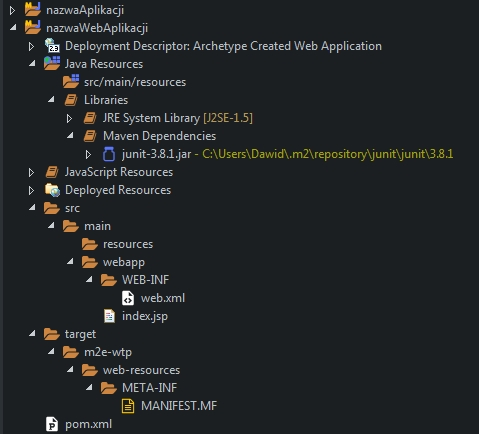
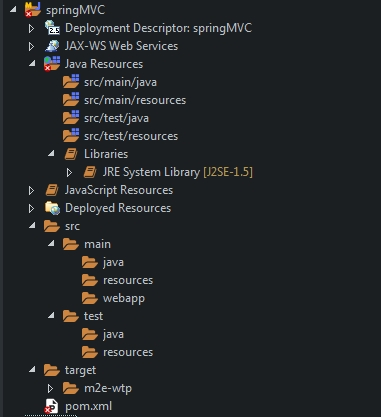
2018-10-12 - Dodanie nowej zawartości

Changed region(s): [[0.0, 0.0, 0.9528, 0.9976]]

diff --git a/WebContent/eclipse/dodawanieSpringMvcDoProjektuMavenDlaJavyEeAdnotacje.html b/WebContent/eclipse/dodawanieSpringMvcDoProjektuMavenDlaJavyEeAdnotacje.html
@@ -1,0 +1,137 @@
+<h1>Dodawanie Spring MVC do projektu Maven - Java EE - konfiguracja na adnotacjach</h1>
+<div class="contentDiv">
+
+	<p>Do wcześniej utworzonego projektu maven dla Javy EE dodamy framework Spring MVC. Aby to zrobić trzeba na początek dodać odpowiednie zależności do pliku 
+	<span class="clickDiv">pom.xml</span>. Zatem dodajemy:</p>
+	
+	<div class="codeDiv">
+		&lt;dependency&gt;<br>
+			&nbsp;&lt;groupId&gt;org.springframework&lt;/groupId&gt;<br>
+			&nbsp;&lt;artifactId&gt;spring-webmvc&lt;/artifactId&gt;<br>
+			&nbsp;&lt;version&gt;5.0.8.RELEASE&lt;/version&gt;<br>
+		&lt;/dependency&gt;<br>
+		&lt;dependency&gt;<br>
+			&nbsp;&lt;groupId&gt;org.springframework&lt;/groupId&gt;<br>
+			&nbsp;&lt;artifactId&gt;spring-core&lt;/artifactId&gt;<br>
+			&nbsp;&lt;version&gt;5.0.8.RELEASE&lt;/version&gt;<br>
+		&lt;/dependency&gt;<br>
+		&lt;dependency&gt;<br>
+			&nbsp;&lt;groupId&gt;org.springframework&lt;/groupId&gt;<br>
+			&nbsp;&lt;artifactId&gt;spring-context&lt;/artifactId&gt;<br>
+			&nbsp;&lt;version&gt;5.0.8.RELEASE&lt;/version&gt;<br>
+		&lt;/dependency&gt;		
+	</div>
+	
+	<p>Upewniamy się, żę zależność dodająca servlet api ma ustawioną wersję 4.0.0:</p>
+	
+	<div class="codeDiv">
+		&lt;dependency&gt;<br>
+			&nbsp;&lt;groupId&gt;javax.servlet&lt;/groupId&gt;<br>
+			&nbsp;&lt;artifactId&gt;javax.servlet-api&lt;/artifactId&gt;<br>
+			&nbsp;&lt;version&gt;4.0.0&lt;/version&gt;<br>
+			&nbsp;&lt;scope&gt;provided&lt;/scope&gt;<br>
+		&lt;/dependency&gt;	
+	</div>
+	
+	<p>Należy zadbać o poprawne ustawienia mavena:</p>
+	
+	<div class="codeDiv">
+		&lt;properties&gt;<br>
+			&nbsp;&lt;failOnMissingWebXml&gt;false&lt;/failOnMissingWebXml&gt;<br>
+			&nbsp;&lt;maven.compiler.source&gt;1.8&lt;/maven.compiler.source&gt;<br>
+			&nbsp;&lt;maven.compiler.target&gt;1.8&lt;/maven.compiler.target&gt;<br>
+			&nbsp;&lt;project.build.sourceEncoding&gt;UTF-8&lt;/project.build.sourceEncoding&gt;<br>
+		&lt;/properties&gt;	
+	</div>
+	
+	<p>Poniższa konfiguracja będzie oparta na adnotacjach. Nie będziemy tutaj używać plików xml do konfiguracji Springa ani serwera. Zatem
+	wygenerowany plik <code>web.xml</code> należy usunąć, bo zostanie on zastąpiony klasą z odpowiednią konfiguracją. Zatem należy utworzyć klasę
+	konfigurującą <code>Dispatcher Servlet</code>. Dla przykładu umieszczamy ją w pakiecie <code>pl.softService.springMVC.configuration</code>:</p>
+	
+	<div class="codeDiv">
+		public class MyDispatcherServlet extends AbstractAnnotationConfigDispatcherServletInitializer {<br>
+		<br>
+			&nbsp;@Override<br>
+			&nbsp;protected Class&lt;?&gt;[] getRootConfigClasses() {<br>
+				&nbsp;&nbsp;return null;<br>
+			&nbsp;}<br>
+		<br>
+			&nbsp;@Override<br>
+			&nbsp;protected Class&lt;?&gt;[] getServletConfigClasses() {<br>				
+				&nbsp;&nbsp;return new Class[] { WebConfig.class };<br>
+			&nbsp;}<br>
+		<br>
+			&nbsp;@Override<br>
+			&nbsp;protected String[] getServletMappings() {<br>		
+				&nbsp;&nbsp;return new String[] {"/"};<br>
+			&nbsp;}<br>
+		<br>
+		}	
+	</div>
+	
+	<p>
+		<code>AbstractAnnotationConfigDispatcherServletInitializer</code> - rozszerzając tą klasę konfigurujemy właśnie Dispatcher Servlet<br>
+		<code>WebConfig.class</code> - wskazujemy klasę z konfiguracją Springa MVC<br>
+	</p>
+	
+	<p>Następnie należy utworzyć klasę z konfiguracją Springa, którą wskazaliśmy powyżej podczas konfiguracji Dispatcher Servletu.
+	Klasę tą również umieszczamy w pakiecie <code>pl.softService.springMVC.configuration</code>:</p>
+	
+	<div class="codeDiv">
+		@Configuration<br>
+		@EnableWebMvc<br>
+		@ComponentScan("pl.softService.springMVC")<br>
+		public class WebConfig implements WebMvcConfigurer {<br>
+		<br>
+			&nbsp;@Override<br>
+			&nbsp;public void configureViewResolvers(ViewResolverRegistry registry) {<br>
+				&nbsp;&nbsp;registry.jsp().prefix("/WEB-INF/views/").suffix(".jsp");<br>
+			&nbsp;}<br>
+		}	
+	</div>
+	
+	<p>
+		<code>@Configuration</code> - ustawienie klasy jako konfiguracji Springa<br>
+		<code>@EnableWebMvc</code> - włączenie Spring MVC<br>
+		<code>@ComponentScan</code> - włącza skanowanie komponentów w wybranym pakiecie<br>
+		<code>configureViewResolvers()</code> - konfiguruje producenta widoków<br>
+	</p>
+	
+	<p>Ostatnią rzeczą jaką należy zrobić jest utworzenie kontrolera, który będzie obsługiwał żądania klienta. Kontroler taki tworzymy przykładowo
+	w pakiecie <code>pl.softService.springMVC.controllers</code>:</p>
+	
+	<div class="codeDiv">
+		@Controller<br>
+		public class HomeController {<br>
+		<br>
+			&nbsp;@RequestMapping(value ="/")<br>
+			&nbsp;public String home(Model model) {<br>
+				&nbsp;&nbsp;model.addAttribute("atribute", "Spring");<br>
+				&nbsp;&nbsp;return "home";<br>
+			&nbsp;}<br>
+		}	
+	</div>
+	
+	<p>
+		<code>@Controller</code> - oznacza klasę kontrolera<br>
+		<code>@RequestMapping</code> - konfiguruje URL żądania jaki będzie obsługiwany przez kontroler / metodę<br>
+	</p>
+	
+	<p>Plik z widokiem umieszczamy w lokalizacji <code>webapp/WEB-INF/views/</code>:</p>
+	
+	<div class="codeDiv">
+		&lt;!DOCTYPE html&gt;<br>
+		&lt;html&gt;<br>
+		&lt;head&gt;<br>
+		&lt;meta charset="UTF-8"&gt;<br>
+		&lt;title&gt;Hello !&lt;/title&gt;<br>
+		&lt;/head&gt;<br>
+		&lt;body&gt;
+			&nbsp;&lt;h3&gt;Hello ${atribute}&lt;/h3&gt;<br>
+		&lt;/body&gt;<br>
+		&lt;/html&gt;
+	</div>
+	
+	<p>Tak przygotowaną aplikację można skompilować przy użyciu polecenia <code>mvn clean package</code></p>
+	
+</div>

diff --git a/WebContent/eclipse/tworzenieProjektuMavenEe.html b/WebContent/eclipse/tworzenieProjektuMavenEe.html
@@ -8,36 +8,32 @@
 	<!-- OBRAZEK Z OKNEM WYBORU PROJEKTU W ECLIPSE -->
 	<img src="obrazki/oknoSelectAWizard.jpg" style="max-width: 525px;" onclick="powiekszZdjecie(this)">
 	
-	<p>Wybieramy <span class="clickDiv">Maven -> Maven Project</span> i przechodzimy do okna ustawień nowego projektu. W tym oknie nie zmieniamy nic. Klikamy <span class="clickDiv">Next</span> i przechodzimy
-	do kolejnego okna konfiguracyjnego nowego projektu:</p>
+	<p>Wybieramy <span class="clickDiv">Maven -> Maven Project</span> i przechodzimy do okna ustawień nowego projektu. W tym oknie zaznaczamy opcję
+	<span class="clickDiv">Create a simple project (skip archetype selection)</span>. Następnie klikamy <span class="clickDiv">Next</span>
+	i przechodzimy do kolejnego okna konfiguracyjnego nowego projektu:</p>
 	
-	<!-- OBRAZEK Z OKNEM USTAWIEŃ NOWEGO PROJEKTU MAVEN -->
-	<img src="obrazki/oknoNewMavenProject.jpg" style="max-width: 728px;" onclick="powiekszZdjecie(this)">
+	<!-- OBRAZEK Z OKNEM USTAWIEŃ NAZWY GROUP ID ORAZ ARTIFACT ID -->
+	<img src="obrazki/oknoNewMavenProjectWebApp_1.jpg" style="max-width: 529px;" onclick="powiekszZdjecie(this)">
 	
-	<p>W tym oknie wybieramy archetyp projektu maven. Aby utworzyć projekt maven web aplikacji wybieramy <span class="clickDiv">maven-archetype-webapp</span> 
-	i przechodzimy do następnego okna klikając przycisk <span class="clickDiv">Next</span></p>
-	
-	<!-- OBRAZEK Z OKNEM USTAWIEŃ ARCHETYPU PROJEKTU MAVEN -->
-	<img src="obrazki/oknoNewMavenProjectWebApp_2.jpg" style="max-width: 823px;" onclick="powiekszZdjecie(this)">
-	
-	<p>W tym oknie ustawiamy Group Id oraz Artifact Id i następnie klikamy przycisk <span class="clickDiv">Finish</span>. Projekt zostaje utworzony.</p>
-	
-	<!-- OBRAZEK Z OKNEM USTAWIEŃ NAZWY GROUP ID ORAZ ARTIFACT ID	 -->
-	<img src="obrazki/oknoNewMavenProjectWebApp_3.jpg" style="max-width: 823px;" onclick="powiekszZdjecie(this)">
+	<p>W tym oknie ustawiamy Group Id, Artifact Id oraz ustawiamy <span class="clickDiv">Packaging</span> wartość war
+	i następnie klikamy przycisk <span class="clickDiv">Finish</span>. Projekt zostaje utworzony.</p>
 	
 	<p>Poniżej przedstawiono drzewo katalogów po utworzeniu projektu web aplikacji maven w Eclipse:</p>
 	
 	<!-- OBRAZEK Z DRZEWKIEM KATALOGÓW NOWO UTWORZONEGO PROJEKTU MAVEN -->
-	<img src="obrazki/drzewoNowegoProjektuMavenWebApp.jpg" style="max-width: 420px;" onclick="powiekszZdjecie(this)">
+	<img src="obrazki/drzewoNowegoProjektuMavenWebApp.jpg" style="max-width: 381px;" onclick="powiekszZdjecie(this)">
 	
-	<p>Aby projekt poprawnie się budował i można go było uruchomić to należy dodać do pliku pom.xml zależność <span class="clickDiv">javax.servlet-api</span> 
-	jak pokazano to na poniższym obrazku</p>
+	<p>Aby projekt poprawnie się budował i można go było uruchomić to należy dodać do pliku pom.xml zależność
+	<span class="clickDiv">javax.servlet</span> oraz
+	kilka ustawień w elemencie <code>&lt;properties&gt;</code> jak pokazano to na poniższym obrazku:</p>
 	
 	<!-- OBRAZEK PLIK POM NOWEGO PROJEKTU MAVEN -->
-	<img src="obrazki/plikPOMnowegoProjektuMavenWebApp.jpg" style="max-width: 764px;" onclick="powiekszZdjecie(this)">
+	<img src="obrazki/plikPOMnowegoProjektuMavenWebApp.jpg" style="max-width: 807px;" onclick="powiekszZdjecie(this)">
 	
-	<p>Po wprowadzeniu jakichkolwiek zmian w pliku pom.xml należy kliknąć ppm na nazwę projektu <span class="clickDiv">Maven -> Update Project</span>. Tak przygotowany projekt można już skompilować.
-	Kompilację robimy z konsoli poleceniem <code>mvn clean package</code>, przechodząc do folderu projektu, jak  pokazano to na załączonym obrazku:</p>
+	<p>Po wprowadzeniu jakichkolwiek zmian w pliku pom.xml należy kliknąć ppm na nazwę projektu
+	<span class="clickDiv">Maven -> Update Project</span>. Tak przygotowany projekt można już skompilować.
+	Kompilację robimy z konsoli poleceniem <code>mvn clean package</code>,
+	przechodząc do folderu projektu, jak  pokazano to na załączonym obrazku:</p>
 	
 	<!-- OBRAZEK Z POLECENIEM KOMPILACJI PROJEKTU MAVEN -->
 	<img src="obrazki/budowanieProjektuMavenWebApp.jpg" style="max-width: 677px;" onclick="powiekszZdjecie(this)">
@@ -47,14 +43,5 @@
 	
 	<!-- OBRAZEK URUCHOMIONEGO PROGRAMU W PRZEGLĄDARCE INTERNETOWEJ -->
 	<img src="obrazki/uruchomienieSkompilowanegoProgramuWPrzegladarce.jpg" style="max-width: 610px;" onclick="powiekszZdjecie(this)">
-	
-	<p>Aby móc skonfigurować folder, do którego maven będzie przenosił zbudowany projekt war, należy dodać zależność 
-	<span class="clickDiv">maven-war-plugin</span> do projektu oraz odpowiednio skonfigurować lokalizację wyjściową dla pliku war, jak
-	pokazano to na poniższym obrazku:</p>
-	
-	<!-- OBRAZEK - PLIK POM Z ZALEŻNOŚCIĄ KONFIGURUJĄCĄ OUTPUT DIRECTORY -->
-	<img src="obrazki/plikPomMavenWarPlugin.jpg" style="max-width: 760px;" onclick="powiekszZdjecie(this)">
-
-	<p>Powyższe ustawienia umożliwiają nadanie nazwy gotowemu plikowi war oraz utworzenie go we wskazanej lokalizacji.</p>
 
 </div>

diff --git a/WebContent/spring/jdbc.html b/WebContent/spring/jdbc.html
@@ -13,7 +13,7 @@
 		&lt;dependency&gt;<br>
 			&nbsp;&lt;groupId&gt;mysql&lt;/groupId&gt;<br>
 			&nbsp;&lt;artifactId&gt;mysql-connector-java&lt;/artifactId&gt;<br>
-			&nbsp;&lt;version&gt;5.0.5&lt;/version&gt;<br>
+			&nbsp;&lt;version&gt;5.0.5&lt;/version&gt;&nbsp;// 5.1.39 Też działa dobrze<br>
 		&lt;/dependency&gt;
 	</div>
 	
@@ -22,8 +22,10 @@
 	<span class="important">MySql</span> potrafi przysporzyć nieco problemów. Dlatego ważne aby korzystać ze sprawdzonych wersji, bo nie każda wersja sterownika działa z każdą wersją Springa,
 	co jest oczywiste.</p>
 	
-	<p>Po dodaniu nezbędnych zależności do projektu należy w pliku konfiguracyjnym Springa <code>applicationContext.xml</code> dodać odpowiedniego bean'a, który będzie nam dostarczał
-	połączenie z bazą danych. Należy zatem w pliku <code>applicationContext.xml</code> umieścić następujący wpis:</p>
+	<p>Po dodaniu nezbędnych zależności do projektu należy w pliku konfiguracyjnym Springa <code>applicationContext.xml</code>
+	lub klasie konfiguracyjnej <code>WebConfig.java</code> w przypadku gdy konfigurujemy Springa za pomocą adnotacji,
+	dodać odpowiedniego bean'a, który będzie nam dostarczał	połączenie z bazą danych.
+	Należy zatem w pliku <code>applicationContext.xml</code> umieścić następujący wpis:</p>
 	
 	<div class="codeDiv">
 		&lt;bean id="dataSource" class="org.springframework.jdbc.datasource.DriverManagerDataSource"&gt;<br>
@@ -32,6 +34,21 @@
 		&nbsp;&lt;property name="username" value="login" /&gt;<br>
 		&nbsp;&lt;property name="password" value="hasło" /&gt;<br>
 	&lt;/bean&gt;
+	</div>
+	
+	<p>lub metodę w klasie <code>WebConfig.java</code>:</p>
+	
+	<div class="codeDiv">
+		@Bean<br>
+		public DataSource dataSource() {<br>
+			&nbsp;DriverManagerDataSource dataSource = new DriverManagerDataSource();<br>
+			&nbsp;dataSource.setDriverClassName("com.mysql.jdbc.Driver");<br>
+			&nbsp;dataSource.setUrl("jdbc:mysql://localhost:3306/nazwa_bazy_danych");<br>
+			&nbsp;dataSource.setUsername("login");<br>
+			&nbsp;dataSource.setPassword("hasło");<br>
+			<br>	
+			return dataSource;<br>
+		}	
 	</div>
 	
 	<p>To już cała konfiguracja, która umożliwia skorzystanie w najprostrzej z opcji z dostępu do bazy danych. Przykład w jaki należy uzyskać dostęp do bazy danych znajduje się na
@@ -123,6 +140,45 @@
 		&lt;bean id="transactionManager" class="org.springframework.orm.jpa.JpaTransactionManager"&gt;<br>
 			&nbsp;&lt;property name="entityManagerFactory" ref="entityManagerFactory" /&gt;<br>
 	&lt;/bean&gt;	
+	</div>
+	
+	<p>lub jeżeli korzystamy z konfiguracji adnotacjami, to w pliku <span class="clickDiv">WebConfig.java</span> należy dodać kilka
+	beanów, jak przedstawiono to poniżej:</p>
+	
+	<div class="codeDiv">
+		@Bean<br>
+		public LocalContainerEntityManagerFactoryBean entityManagerFactory() {<br>
+			&nbsp;LocalContainerEntityManagerFactoryBean em = new LocalContainerEntityManagerFactoryBean();<br>
+			&nbsp;em.setDataSource(dataSource());<br>
+			&nbsp;em.setPackagesToScan(new String[] { "pl.softService.springMVC.domain" });<br>
+		<br>
+			&nbsp;JpaVendorAdapter vendorAdapter = new HibernateJpaVendorAdapter();<br>
+			&nbsp;em.setJpaVendorAdapter(vendorAdapter);<br>
+			&nbsp;em.setJpaProperties(additionalProperties());<br>
+		<br>
+			&nbsp;return em;<br>
+		}<br>
+		<br>
+		@Bean<br>
+		public PlatformTransactionManager transactionManager(EntityManagerFactory emf) {<br>
+			&nbsp;JpaTransactionManager transactionManager = new JpaTransactionManager();<br>
+			&nbsp;transactionManager.setEntityManagerFactory(emf);<br>
+		<br>
+			&nbsp;return transactionManager;<br>
+		}<br>
+		<br>
+		@Bean<br>
+		public PersistenceExceptionTranslationPostProcessor exceptionTranslation() {<br>
+			&nbsp;return new PersistenceExceptionTranslationPostProcessor();<br>
+		}<br>
+		<br>
+		Properties additionalProperties() {<br>
+			&nbsp;Properties properties = new Properties();<br>
+			&nbsp;properties.setProperty("hibernate.hbm2ddl.auto", "create-drop");<br>
+			&nbsp;properties.setProperty("hibernate.dialect", "org.hibernate.dialect.MySQL5Dialect");<br>
+		<br>
+			&nbsp;return properties;<br>
+		}	
 	</div>
 	
 	<p>

diff --git a/WebContent/spring/springSecurity.html b/WebContent/spring/springSecurity.html
@@ -81,22 +81,38 @@
 		  		&nbsp;&nbsp;authentication-failure-url="/login.html?error=true"<br>
 		  		&nbsp;&nbsp;always-use-default-target="true"/&gt;<br>
 			&nbsp;&lt;http-basic /&gt;<br>
+			&nbsp;&lt;logout invalidate-session="false" delete-cookies="JSESSIONID"/&gt;<br>
 		&lt;/http&gt;
 	</div>
 	
-	<p>Dodatkowo w pliku konfiguracyjnym <code>web.xml</code> należy dodać odpowiednie mapowanie na stronę logowania:</p>
+	<p>Powyższe ustawienia konfigurują również defaultową obsługę wylogowywania poprzez przejście pod adres:</p>
 	
 	<div class="codeDiv">
-		&lt;servlet&gt;<br>
-		    &nbsp;&lt;servlet-name&gt;loginPage&lt;/servlet-name&gt;<br>
-		    &lt;jsp-file&gt;/login.html&lt;/jsp-file&gt;<br>
-		&lt;/servlet&gt;<br>
-		&lt;servlet-mapping&gt;<br>
-		    &nbsp;&lt;servlet-name&gt;loginPage&lt;/servlet-name&gt;<br>
-		    &nbsp;&lt;url-pattern&gt;/login.html&lt;/url-pattern&gt;<br>
-		&lt;/servlet-mapping&gt;
+		&lt;form action="${pageContext.request.contextPath}/logout" method="post"&gt;<br>
+			&nbsp;&lt;div&gt;<br>
+				&nbsp;&lt;span&gt;Zalogowany:&lt;security:authentication property="principal.username" /&gt;&lt;/span&gt;<br>
+				&nbsp;&nbsp;&lt;input type="submit" class="btn btn-outline-danger" value="Wyloguj" /&gt;<br>				
+				&nbsp;&nbsp;&lt;input type="hidden" name="${_csrf.parameterName}" value="${_csrf.token}"/&gt;<br>	
+			&nbsp;&lt;/div&gt;<br>
+		&lt;/form&gt;		
 	</div>
 	
+	<p>Aby skorzystać z tagu security na stronie jsp należy dodać odpowiedni taglib do strony jsp:</p>
+	
+	<div class="codeDiv">
+		&lt;%@ taglib uri="http://www.springframework.org/security/tags" prefix="security"%&gt;
+	</div>
+	
+	<p>oraz odpowiednią zależność do projektu:</p>
+
+	<div class="codeDiv">
+		&lt;dependency&gt;<br>
+			&nbsp;&lt;groupId&gt;org.springframework.security&lt;/groupId&gt;<br>
+			&nbsp;&lt;artifactId&gt;spring-security-taglibs&lt;/artifactId&gt;<br>
+			&nbsp;&lt;version&gt;5.0.8.RELEASE&lt;/version&gt;<br>
+		&lt;/dependency&gt;
+	</div>
+		
 	<p>Na końcu dodajemy plik ze stroną logowania. W naszym przypadku będzie to plik <code>html</code> umieszczony w
 	katalogu głównym aplikacji webapp:</p>
 	

diff --git a/WebContent/eclipse/eclipse.html b/WebContent/eclipse/eclipse.html
@@ -35,7 +35,8 @@
 				<button type="button" class="subMenuButton" onclick="$('#contentDiv').load('tworzenieProjektuMaven.html'); setActiveSubButton(this);">Tworzenie projektu maven dla Javy SE</button>
 				<button type="button" class="subMenuButton" onclick="$('#contentDiv').load('tworzenieProjektuMavenEe.html'); setActiveSubButton(this);">Tworzenie projektu maven dla Javy EE</button>
 				<button type="button" class="subMenuButton" onclick="$('#contentDiv').load('dodawanieNowegoServletu.html'); setActiveSubButton(this);">Dodawanie nowego servletu</button>
-				<button type="button" class="subMenuButton" onclick="$('#contentDiv').load('dodawanieSpringMvcDoProjektuMavenDlaJavyEe.html'); setActiveSubButton(this);">Dodawanie Spring MVC Do projektu maven</button>
+				<button type="button" class="subMenuButton" onclick="$('#contentDiv').load('dodawanieSpringMvcDoProjektuMavenDlaJavyEeXml.html'); setActiveSubButton(this);">Dodawanie Spring MVC Do projektu maven - XML</button>
+				<button type="button" class="subMenuButton" onclick="$('#contentDiv').load('dodawanieSpringMvcDoProjektuMavenDlaJavyEeAdnotacje.html'); setActiveSubButton(this);">Dodawanie Spring MVC Do projektu maven - Adnotacje</button>
 				<button type="button" class="subMenuButton" onclick="$('#contentDiv').load('debugowanie.html'); setActiveSubButton(this);">Debugowanie</button>
 			</div>
 		</div>

diff --git a/WebContent/spring/springData.html b/WebContent/spring/springData.html
@@ -18,6 +18,13 @@
 	<div class="codeDiv">
 		&lt;jpa:repositories base-package="pl.nazwaDomeny.nazwaAplikacji"/&gt;	
 	</div>
+	
+	<p>lub jeżeli korzystamy z klasy konfiguracyjnej springa to w klasie <span class="clickDiv">WebConfig.java</span>
+	umieszczamy adnotację konfigurującą nad nazwą klasy:</p>
+	
+	<div class="codeDiv">
+		@EnableJpaRepositories(basePackages = "pl.nazwaDomeny.nazwaAplikacji")	
+	</div>
 
 	<p>To już wszystko jeżeli chodzi o konfiguracje Springa. Teraz należy utworzyć interfejs, który rozszerza interfejs
 	<code>org.springframework.data.repository.Repository&lt;T, ID&gt;</code> i sparametryzować go typem jakim chcemy zarządzać, jak

diff --git a/WebContent/eclipse/tworzenieProjektuMaven.html b/WebContent/eclipse/tworzenieProjektuMaven.html
@@ -11,7 +11,7 @@
 	do kolejnego okna konfiguracyjnego nowego projektu:</p>
 	
 	<!-- OBRAZEK Z OKNEM USTAWIEŃ NOWEGO PROJEKTU MAVEN -->
-	<img src="obrazki/oknoNewMavenProject.jpg" style="max-width: 728px;" onclick="powiekszZdjecie(this)">
+	<img src="obrazki/oknoNewMavenProject.jpg" style="max-width: 529px;" onclick="powiekszZdjecie(this)">
 	
 	<p>W tym oknie wybieramy archetyp projektu maven. Aby utworzyć prosty projekt maven w tym oknie nie zmieniamy nic i przechodzimy do następnego okna klikając przycisk <span class="clickDiv">Next</span></p>
 	

diff --git a/WebContent/eclipse/dodawanieSpringMvcDoProjektuMavenDlaJavyEeXml.html b/WebContent/eclipse/dodawanieSpringMvcDoProjektuMavenDlaJavyEeXml.html
@@ -1,4 +1,4 @@
-<h1>Dodawanie Spring MVC do projektu Maven - Java EE</h1>
+<h1>Dodawanie Spring MVC do projektu Maven - Java EE - konfiguracja XML</h1>
 <div class="contentDiv">
 
 	<p>Do wcześniej utworzonego projektu maven dla Javy EE dodamy framework Spring MVC. Aby to zrobić trzeba na początek dodać odpowiednie zależności do pliku 
